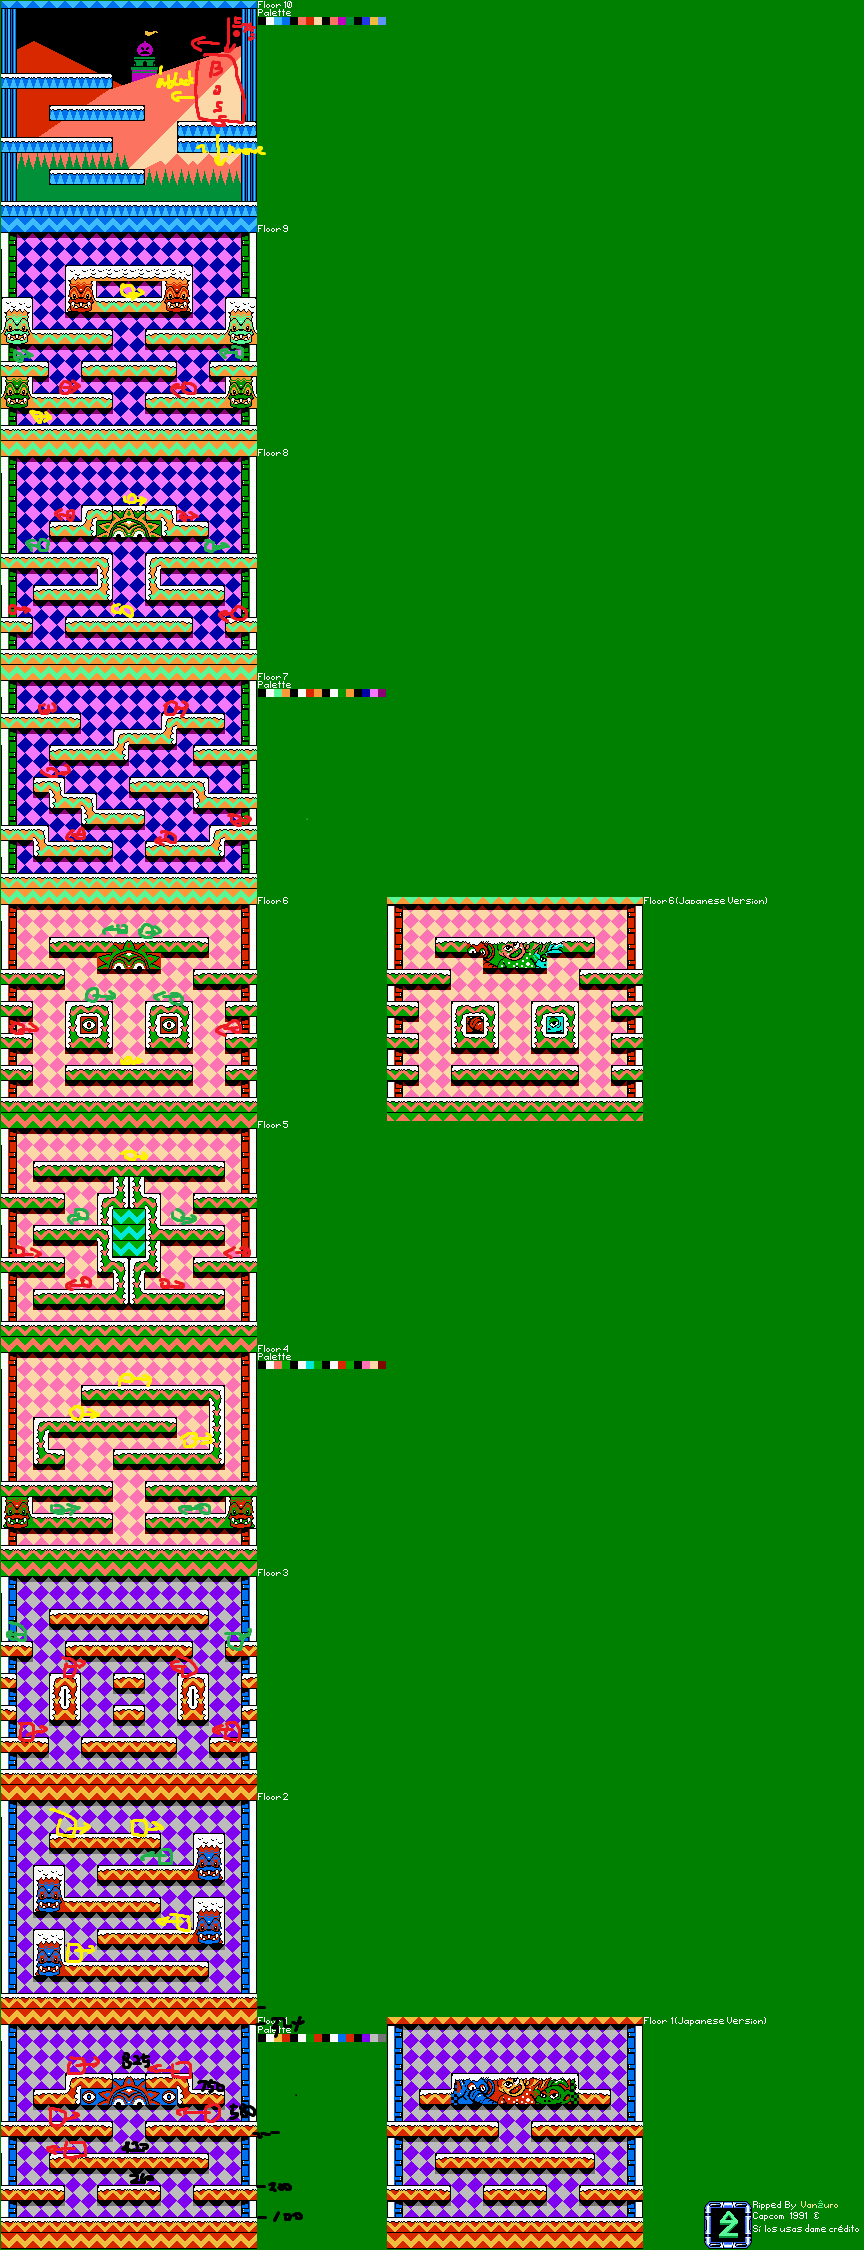
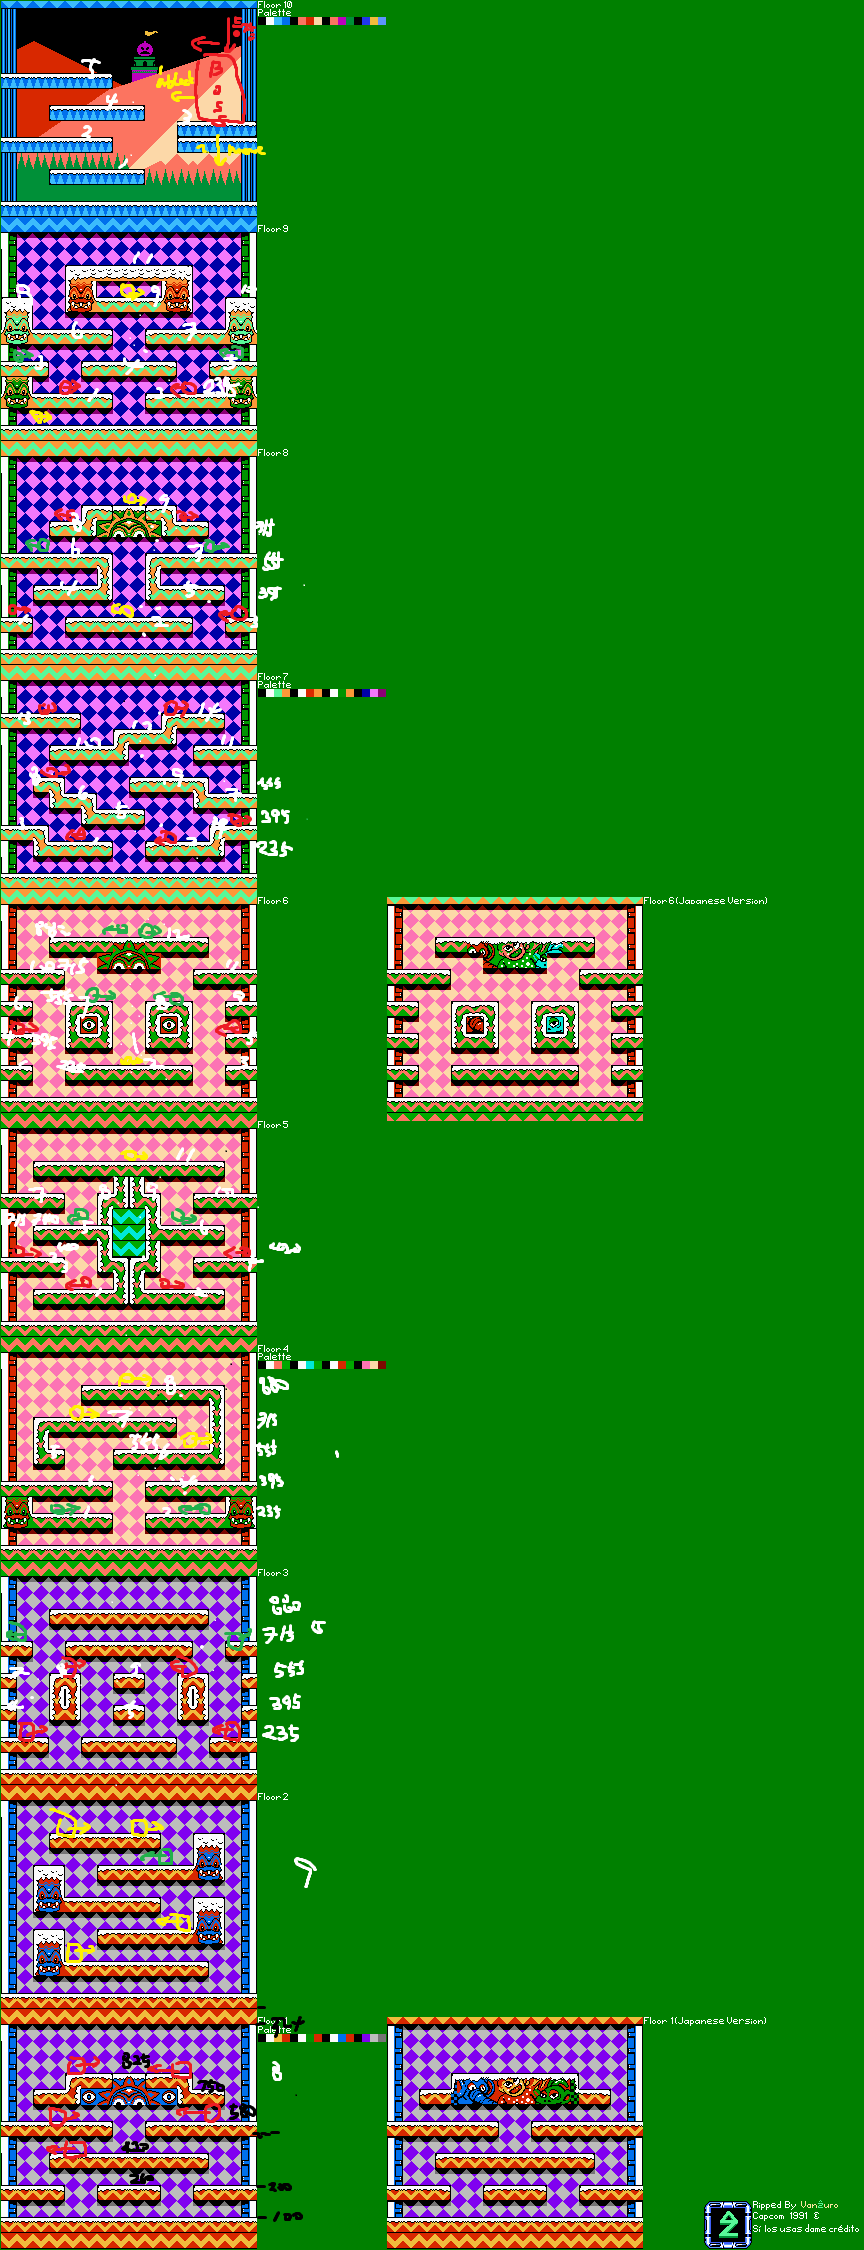
Stage1 완성

diff --git a/snow_brothers_code/enimies.py b/snow_brothers_code/enimies.py
@@ -17,9 +17,36 @@ ACTION_PER_TIME = 1.0 / TIME_PER_ACTION
 FRAMES_PER_ACTION = 3
 
 # RedDemon_Xpos = [75, 55, 215, 75, 180]
-RedDemon_Xpos = [[375, 275, 1075, 375, 900], [None], []]
-RedDemon_Ypos = [[260, 420, 420, 580, 580], [None], []]
-RedDemon_dir = [[-1, 1, -1, 1, -1], [None], []]
+RedDemon_Xpos = [[375, 275, 1075, 375, 900],
+                 [None],
+                 [125, 1175, 325, 975],
+                 [None],
+                 [85, 160, 15, 245],
+                 [15, 235],
+                 [75, 165, 235, 50, 45, 170],
+                 [10, 240, 70, 185],
+                 [65, 195],
+                 [None]]
+RedDemon_Ypos = [[260, 420, 420, 580, 580],
+                 [None],
+                 [260, 260, 580, 580],
+                 [None],
+                 [260, 260, 420, 420],
+                 [420, 420],
+                 [260, 260, 340, 740, 905, 905],
+                 [260, 260, 825, 825],
+                 [260, 260],
+                 [None]]
+RedDemon_dir = [[-1, 1, -1, 1, -1],
+                [None],
+                [1, -1, 1, -1],
+                [None],
+                [-1, 1, 1, -1],
+                [1, -1],
+                [-1, -1, 1, 1, 1, 1],
+                [1, -1, -1, 1],
+                [1, -1],
+                [None]]
 
 class RedDemon:
     def __init__(self, i):
@@ -77,20 +104,48 @@ class RedDemon:
                 play_state.stage += 1
                 print(f'stage is {play_state.stage}')
                 map.map_y += 224
+                play_state.nick.x ,play_state.nick.y = 100, 100
                 game_framework.change_state(play_state)
     def get_bb(self):
         return self.x - 30, self.y - 33, self.x + 30, self.y + 33
 
-Frog_Xpos = [[None], [375, 275, 1075, 375, 900], []]
-Frog_Ypos = [[None], [260, 420, 420, 580, 580], []]
-Frog_dir = [[None], [-1, 1, -1, 1, -1], []]
+Frog_Xpos = [[None],
+             [495],
+             [75, 1200],
+             [55, 205],
+             [80, 175],
+             [90, 175, 115, 145],
+             [None],
+             [40, 210],
+             [None],
+             [None]]
+Frog_Ypos = [[None],
+             [745],
+             [740, 740],
+             [260, 260],
+             [740, 740],
+             [580, 580, 905, 905],
+             [None],
+             [580, 580],
+             [None],
+             [None]]
+Frog_dir = [[None],
+            [-1],
+            [-1, -1],
+            [1, -1],
+            [-1, 1],
+            [1, -1, -1, 1],
+            [None],
+            [-1, 1],
+            [None],
+            [None]]
 
 class Frog:
     def __init__(self, i):
         # self.x, self.y = 640, 100 #825
         self.x, self.y = Frog_Xpos[play_state.stage - 1][i], Frog_Ypos[play_state.stage - 1][i]
         self.frame = 0
-        self.dir, self.face_dir = 1, 1
+        self.dir, self.face_dir = Frog_dir[play_state.stage -1][i], Frog_dir[play_state.stage -1][i]
         self.ver = 0
         self.jump = 0
         self.attack = 0
@@ -102,12 +157,12 @@ class Frog:
         # self.x += self.dir * 1
         self.frame = (self.frame + FRAMES_PER_ACTION * ACTION_PER_TIME * game_framework.frame_time) % 2
         self.x += self.dir * RedDemon_RUN_SPEED_PPS * game_framework.frame_time
-        if self.x > 960:
-            self.x = 960
+        if self.x > 1280:
+            self.x = 1280
             self.dir = -1
             self.face_dir = -1
-        elif self.x < 325:
-            self.x = 325
+        elif self.x < 0:
+            self.x = 0
             self.dir = 1
             self.face_dir = 1
         # self.x = clamp(325, self.x, 960)
@@ -137,15 +192,47 @@ class Frog:
                 play_state.stage += 1
                 print(f'stage is {play_state.stage}')
                 map.map_y += 224
+                play_state.nick.x ,play_state.nick.y = 100, 100
                 game_framework.change_state(play_state)
     def get_bb(self):
         return self.x - 19, self.y - 33, self.x + 19, self.y + 33
 
+
+Yellow_Troll_Xpos = [[None],
+                     [375, 925, 350, 650],
+                     [None],
+                     [195, 75, 125],
+                     [130],
+                     [130],
+                     [None],
+                     [130],
+                     [40, 130],
+                     [None]]
+Yellow_Troll_Ypos = [[None],
+                     [265, 425, 910, 910],
+                     [None],
+                     [380, 740, 905],
+                     [905],
+                     [260],
+                     [None],
+                     [905],
+                     [120, 740],
+                     [None]]
+Yellow_Troll_dir = [[None],
+                    [1, -1, 1, 1],
+                    [None],
+                    [1, 1, 1],
+                    [1],
+                    [1],
+                    [None],
+                    [1],
+                    [1, 1],
+                    [None]]
 class Yellow_Troll:
-    def __init__(self):
-        self.x, self.y = random.randint(325, 960) , 100 #825
+    def __init__(self, i):
+        self.x, self.y = Yellow_Troll_Xpos[play_state.stage - 1][i], Yellow_Troll_Ypos[play_state.stage - 1][i]
         self.frame = 0
-        self.dir, self.face_dir = 1, 1
+        self.dir, self.face_dir = Yellow_Troll_dir[play_state.stage -1][i], Yellow_Troll_dir[play_state.stage -1][i]
         self.ver = 0
         self.jump = 0
         self.attack = 0
@@ -155,12 +242,12 @@ class Yellow_Troll:
     def update(self):
         self.frame = (self.frame + FRAMES_PER_ACTION * ACTION_PER_TIME * game_framework.frame_time) % 2
         self.x += self.dir * RedDemon_RUN_SPEED_PPS * game_framework.frame_time
-        if self.x > 960:
-            self.x = 960
+        if self.x > 1280:
+            self.x = 1280
             self.dir = -1
             self.face_dir = -1
-        elif self.x < 325:
-            self.x = 325
+        elif self.x < 0:
+            self.x = 0
             self.dir = 1
             self.face_dir = 1
         # self.x = clamp(325, self.x, 960)
@@ -190,6 +277,7 @@ class Yellow_Troll:
                 play_state.stage += 1
                 print(f'stage is {play_state.stage}')
                 map.map_y += 224
+                play_state.nick.x ,play_state.nick.y = 100, 100
                 game_framework.change_state(play_state)
     def get_bb(self):
         return self.x - 30, self.y - 33, self.x + 30, self.y + 33

diff --git a/snow_brothers_code/map.py b/snow_brothers_code/map.py
@@ -7,10 +7,36 @@ MAP_SIZE = 5
 
 map_y = 0
 
-Block_SXpos = [[0, 485, 965, 245, 0, 725, 165, 325], [320, 165, 485, 965, 485, 320, 485, 965, 245]]
-Block_EXpos = [[320, 800, 1280, 1040, 560, 1280, 1120, 960], [1040, 320, 965, 1120, 965, 1040, 965, 1120, 800]]
-# Block_Ypos = [260, 260, 260, 420, 580, 580, 750, 825]
-Block_Ypos = [[235, 235, 235, 395, 555, 555, 715, 800], [235, 395, 395, 555, 555, 715, 715, 800, 800]]
+Block_SXpos = [[0, 485, 965, 245, 0, 725, 165, 325],
+               [320, 165, 485, 965, 320, 165, 485, 965, 245],
+               [5, 405, 1045, 5, 565, 1205, 5, 245, 565, 885, 1205, 5, 325, 1125, 245],
+               [160, 725, 5, 725, 240, 565, 165, 405],
+               [165, 720, 5, 965, 165, 800, 5, 485, 720, 965, 165],
+               [5, 325, 1125, 5, 1125, 5, 325, 725, 1125, 5, 965, 245],
+               [240, 730, 5, 1045, 480, 320, 1040, 165, 645, 245, 965, 565, 5, 805],
+               [5, 325, 1125, 165, 800, 5, 725, 245, 405],
+               [160, 725, 5, 405, 1045, 160, 725, 5, 480, 1125, 325],
+               [245, 5, 885, 245, 5]]
+Block_EXpos = [[320, 800, 1280, 1040, 560, 1280, 1120, 960],
+               [1040, 320, 965, 1120, 800, 320, 965, 1120, 800],
+               [240, 880, 1280, 80, 720, 1280, 80, 400, 720, 1040, 1280, 160, 960, 1280, 1040],
+               [560, 1125, 560, 1280, 320, 1045, 880, 1120],
+               [565, 1120, 320, 1280, 485, 1120, 320, 565, 800, 1280, 1120],
+               [160, 960, 1280, 160, 1280, 160, 560, 960, 1280, 320, 1280, 1040],
+               [560, 1045, 240, 1280, 720, 480, 1280, 320, 1040, 565, 1280, 805, 400, 1120],
+               [160, 960, 1280, 485, 1120, 560, 1280, 1040, 880],
+               [560, 1125, 240, 88, 1280, 560, 1125, 175, 805, 1280, 960],
+               [720, 560, 1205, 720, 560]]
+Block_Ypos = [[235, 235, 235, 395, 555, 555, 715, 800],
+              [235, 395, 395, 555, 555, 715, 715, 880, 880],
+              [235, 235, 235, 395, 395, 395, 555, 555, 555, 555, 555, 715, 715, 715, 880],
+              [235, 235, 395, 395, 555, 555, 715, 880],
+              [235, 235, 395, 395, 555, 555, 715, 715, 715, 715, 880],
+              [235, 235, 235, 395, 395, 555, 555, 555, 555, 715, 715, 880],
+              [235, 235, 315, 315, 395, 475, 475, 555, 555, 715, 715, 800, 880, 880],
+              [235, 235, 235, 395, 395, 555, 555, 715, 800],
+              [235, 235, 395, 395, 395, 555, 555, 715, 715, 715, 880],
+              [235, 395, 475, 555, 715]]
 
 class Map:
     def __init__(self):

diff --git a/snow_brothers_code/play_state.py b/snow_brothers_code/play_state.py
@@ -31,10 +31,10 @@ RedDemonlist = dict()
 RedDemonlist = {1: 5, 2: 0, 3: 4, 4: 0, 5: 4, 6: 2, 7: 6, 8: 4, 9: 2}
 
 Froglist = dict()
-Froglist = {1: 0, 2: 4, 3: 0, 4: 3, 5: 1, 6: 1, 7: 0, 8: 2, 9: 2, 10: 0}
+Froglist = {1: 0, 2: 1, 3: 2, 4: 2, 5: 2, 6: 4, 7: 0, 8: 2, 9: 2, 10: 0}
 
 Yellow_Trolllist = dict()
-Yellow_Trolllist = {1: 0, 2: 1, 3: 2, 4: 2, 5: 2, 6: 4, 7: 0, 8: 2, 9: 2, 10: 0}
+Yellow_Trolllist = {1: 0, 2: 4, 3: 0, 4: 3, 5: 1, 6: 1, 7: 0, 8: 2, 9: 2, 10: 0}
 
 All_enimes = dict()
 All_enimes = {1: 5, 2: 5, 3: 6, 4: 5, 5: 7, 6: 7, 7: 6, 8: 8, 9: 6, 10: 0}
@@ -43,7 +43,7 @@ Bosslist = dict()
 Bosslist = {1: 0, 2: 0, 3: 0, 4: 0, 5: 0, 6: 0, 7: 0, 8: 0, 9: 0, 10: 1}
 
 Blocks = dict()
-Blocklist = {1: 8, 2: 9, 3: 15, 4: 12, 5: 17, 6: 12, 7: 14, 8: 11, 9: 13, 10: 5}
+Blocklist = {1: 8, 2: 9, 3: 15, 4: 8, 5: 11, 6: 12, 7: 14, 8: 9, 9: 11, 10: 5}
 
 MAP_WIDTH, MAP_HEIGHT = 256, 223
 MAP_SIZE = 5
@@ -84,7 +84,7 @@ def enter():
     Frogs = [Frog(i) for i in range(Froglist[stage])]
     game_world.add_objects(Frogs, 1)
 
-    Yellow_Trolls = [Yellow_Troll() for i in range(Yellow_Trolllist[stage])]
+    Yellow_Trolls = [Yellow_Troll(i) for i in range(Yellow_Trolllist[stage])]
     game_world.add_objects(Yellow_Trolls, 1)
 
     Boss = [Boss2() for i in range(Bosslist[stage])]

diff --git a/snow_brothers_code/nick.py b/snow_brothers_code/nick.py
@@ -270,7 +270,7 @@ next_state = {
 
 class Nick:
     def __init__(self):
-        self.x, self.y = 0, 100
+        self.x, self.y = 100, 100
         self.frame = 0
         self.dir, self.face_dir = 0, 1
         self.image = load_image('Nick.png')
